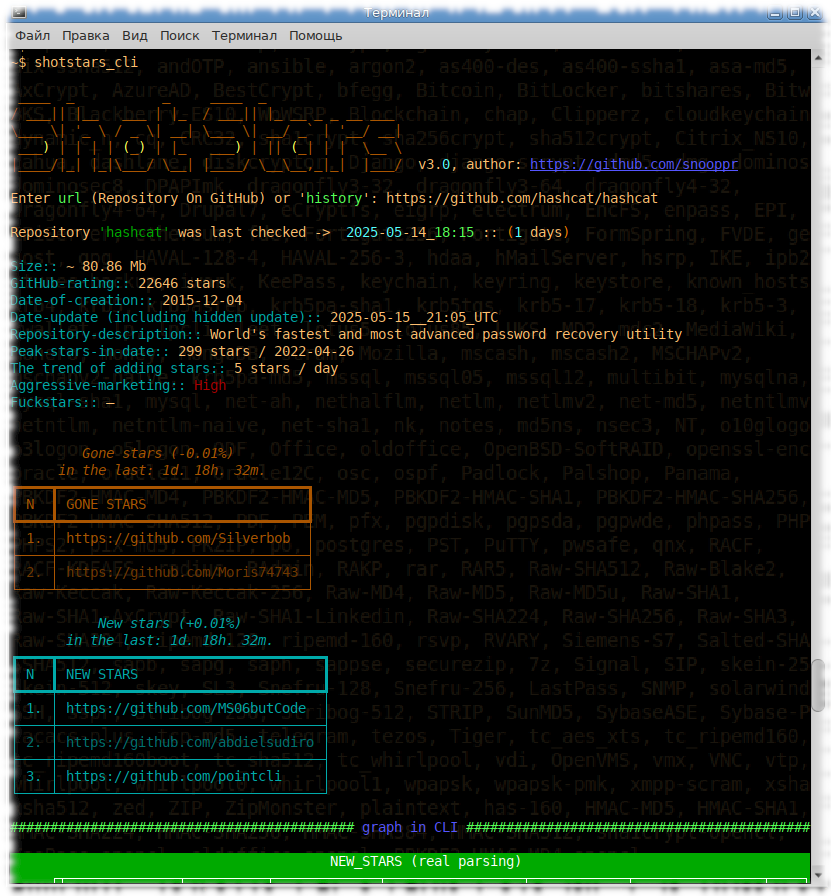
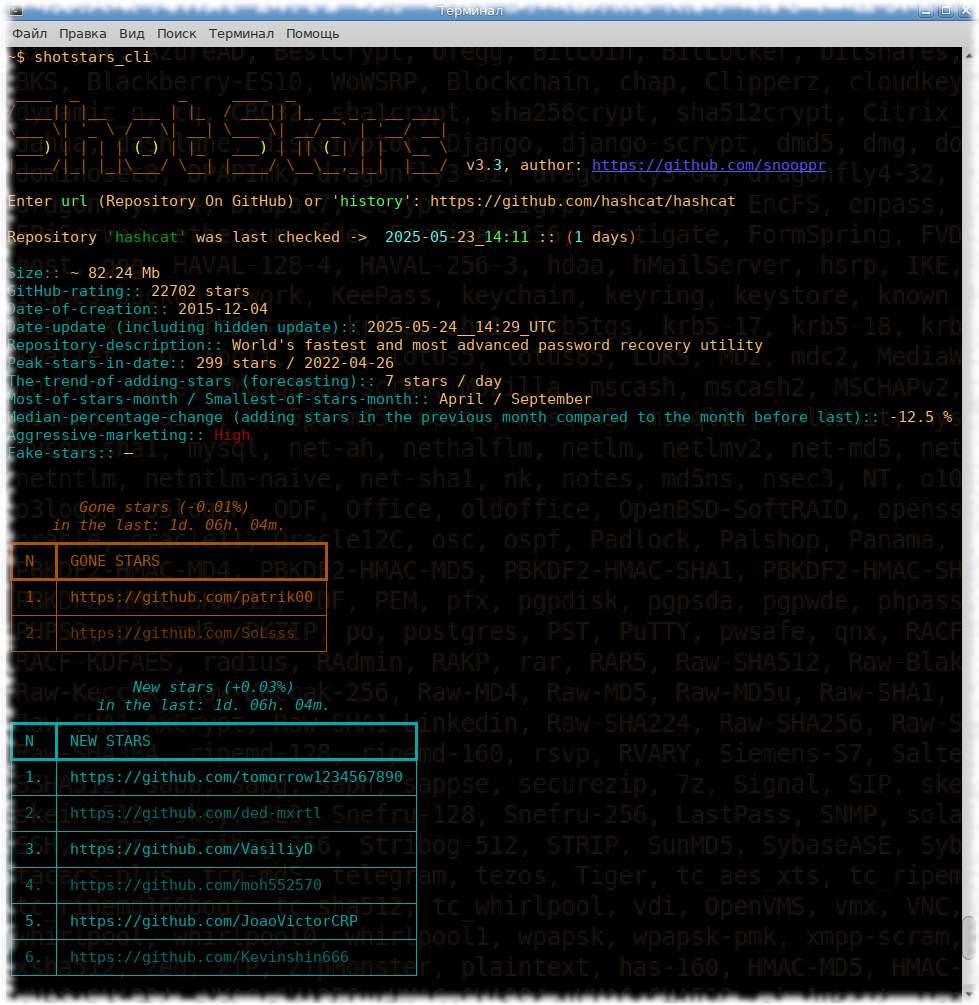
New version v3.3
— All statistics are now calculated if the repository is more than 2 months old (previously,
it was only calculated if the repository was more than a year old).

— The-trend-of-adding-stars algorithm has been corrected
(taking into account days without star movement).

— A new metric has been added to CLI/HTML reports: 'Median-percentage-change
(adding stars in the previous month compared to the month before last)'.
Algorithm: https://en.wikipedia.org/wiki/Relative_change Dynamics are measured in %
(the ratio of adding stars (based on the median) from the month before last to the last month).
For example, in January the adding of stars was (outliers, fake stars are not taken into account,
median) 5 stars / day, in February 10 stars / day, then the metric will show +100%. If the
dynamics are negative, January - 10 stars / day, February - 5 stars / day, then the metric will
show (-50%), this is not an error, because it is not measured in times,
check (10 = 100%, 5 = x, x = (5 * 100/10) - 100).

— Added new metric: "Most-of-stars-month / Smallest-of-stars-month", which displays the names of
the months (in which months the most and least stars were received).

— Minor visual edits to the HTML report.

Changed region(s): [[0.0, 0.0, 1.0, 1.0], [0.9025, 0.2188, 0.9326, 0.2812], [0.9025, 0.3438, 0.9326, 0.375]]

diff --git a/shotstars/shotstars.py b/shotstars/shotstars.py
@@ -39,7 +39,7 @@ console.print(r"""[yellow]
 / ___|| |__   ___ | |_  / ___|| |_ __ _ _ __ ___
 \___ \| '_ \ / _ \| __| \___ \| __/ _` | '__/ __|
  ___) | | | | (_) | |_   ___) | || (_| | |  \__ \
-|____/|_| |_|\___/ \__| |____/ \__\__,_|_|  |___/[/yellow]  v3.2, author: https://github.com/snooppr
+|____/|_| |_|\___/ \__| |____/ \__\__,_|_|  |___/[/yellow]  v3.3, author: https://github.com/snooppr
 """)
 
 
@@ -193,6 +193,7 @@ def agregated_date(filename):
 
 
 def calc_stars(aggregated_data):
+    """Получаем дату, и на неё кол-во звезд"""
     sorted_items = sorted(aggregated_data.items(), key=lambda item: datetime.datetime.strptime(item[0], '%Y-%m-%d'))
     dates_for_plot = [item[0] for item in sorted_items]
     counts_for_plot = [item[1] for item in sorted_items]
@@ -262,7 +263,7 @@ def generate_plots(aggregated_data, source_filename):
         elif base_filename == 'all_gone_stars.html':
             line_color = 'red'
             marker_color = '#a73c3c'
-
+# строим 1-й в HTML-график.
         fig.add_trace(plt_html.Scatter(x=dates_for_plot, y=counts_for_plot, mode='markers',
                       marker=dict(color=marker_color, size=8, symbol='star'),
                       error_y=dict(type='data', arrayminus=counts_for_plot, array=[0] * len(counts_for_plot),
@@ -602,7 +603,7 @@ def parsing(diff=False):
     config.read(os.path.join(os.path.dirname(path), "config.ini"))
     token = config.get('Shotstars', 'token')
     if token != "None":
-        head = {'User-Agent': f'Shotstars v3.2', 'Authorization': f'Bearer {token}'}
+        head = {'User-Agent': f'Shotstars v3.3', 'Authorization': f'Bearer {token}'}
     elif token == "None":
         head = {'User-Agent': f'Mozilla/5.0 (X11; Linux x86_64; rv:{random.randint(119, 127)}.0) Gecko/20100101 Firefox/121.0'}
 
@@ -694,22 +695,41 @@ def parsing(diff=False):
             pass
 
 # Статистика.
-    Maximum_stars_in_date = Counter({date: len(users) for date, users in datestars_user.items()}) #data для 1-го гр.add_stars.
-    stdev = statistics.stdev(list(Maximum_stars_in_date.values()))
-    dif_date = (datetime.datetime.today() - datetime.datetime.strptime(created_at, "%Y-%m-%d")).days
-    _Maximum_stars_in_date = Maximum_stars_in_date.copy()
-    trend = f"{round(statistics.median(list(_Maximum_stars_in_date.values())))} stars / day"
-    cumulative_datestars = Counter() #data для 2-го гр. add_stars.
+    start_date = datetime.datetime.strptime(created_at, "%Y-%m-%d")
+    end_date = datetime.datetime.today()
+    Maximum_stars_in_date = Counter({date: len(users) for date, users in datestars_user.items()}) #data для 1-го гр. add_stars.
+    dif_date = (end_date - start_date).days
 
+    cumulative_datestars = Counter() #data для 2-го гр. add_stars.
     s_total = 0
     for k, v in sorted(Maximum_stars_in_date.items()):
         s_total += v
         cumulative_datestars[k] = s_total
 
-    for i in range(dif_date - len(_Maximum_stars_in_date)):
-        _Maximum_stars_in_date.update({i: 0})
+    _Maximum_stars_in_date = Maximum_stars_in_date.copy()
+    while start_date <= end_date:
+        date_str = start_date.strftime('%Y-%m-%d')
+        _Maximum_stars_in_date.setdefault(date_str, 0)
+        start_date += datetime.timedelta(days=1)
 
-    if dif_date > 365:
+    sort_alldate_stars = sorted(_Maximum_stars_in_date.items(), key=lambda item: datetime.datetime.strptime(item[0], '%Y-%m-%d'))
+
+    if dif_date > 31:
+        trend = statistics.median([i[1] for i in sort_alldate_stars[-30:]])
+    else:
+        trend = statistics.median([i[1] for i in sort_alldate_stars])
+
+    trend = f"1 stars / day" if trend == 0.5 else f"{round(trend)} stars / day"
+
+    if dif_date > 62:
+        relative_start = statistics.median([i[1] for i in sort_alldate_stars[-60:-30]])
+        relative_end = statistics.median([i[1] for i in sort_alldate_stars[-30:]])
+        try:
+            relative_percentage = f"{round(((relative_end - relative_start) / relative_start) * 100, 2)} %"
+        except ZeroDivisionError:
+            relative_percentage = "—"
+
+        stdev = statistics.stdev([i[1] for i in sort_alldate_stars])
         if stdev < 4: marketing, marketing_color, fuckstars = "—", "—", "—"
         elif 4 < stdev < 6: marketing, marketing_color, fuckstars = "Low", "[green]Low[/green]", "—"
         elif 6 < stdev < 11: marketing, marketing_color, fuckstars = "Medium", "[yellow]Medium[/yellow]", "—"
@@ -719,14 +739,32 @@ def parsing(diff=False):
             marketing, marketing_color = "Hard+", "[black on red]Hard+[/black on red]"
             fuckstars = "Yes, multiple attempts to promote fake stars"
     else:
-        marketing = "The repository is still young, not enough data"
-        marketing_color = "The repository is still young, not enough data"
-        fuckstars = "The repository is still young, not enough data"
+        none_statistic = "The repository is still young, not enough data"
+        relative_percentage = none_statistic
+        marketing = none_statistic
+        marketing_color = none_statistic
+        fuckstars = none_statistic
 
-    for date_stars_max, cnt_stars in Maximum_stars_in_date.most_common(1):
-        console.print(f"[cyan]Peak-stars-in-date::[/cyan] {cnt_stars} stars / {date_stars_max}", highlight=False)
+    months = ["January", "February", "March", "April", "May", "June",
+              "July", "August", "September", "October", "November", "December"]
+    month_sum = defaultdict(int)
+    for date_str, _star in sort_alldate_stars:
+        dt = datetime.datetime.strptime(date_str, '%Y-%m-%d')
+        month_number = dt.month
+        month_sum[month_number] += _star
 
-    console.print("[cyan]The-trend-of-adding-stars::[/cyan]", trend, highlight=False)
+    cnt_month_sum = Counter(month_sum)
+    high_stars_month = months[cnt_month_sum.most_common()[0][0] - 1]
+    low_stars_month = months[cnt_month_sum.most_common()[-1][0] - 1]
+
+    max_stars, in_date = Maximum_stars_in_date.most_common(1)[0][-1], Maximum_stars_in_date.most_common(1)[0][0]
+
+    console.print(f"[cyan]Peak-stars-in-date::[/cyan] {max_stars} stars / {in_date}", highlight=False)
+    console.print(f"[cyan]The-trend-of-adding-stars (forecasting)::[/cyan] {trend}", highlight=False)
+    console.print(f"[cyan]Most-of-stars-month / Smallest-of-stars-month::[/cyan] {high_stars_month} / {low_stars_month}",
+                  highlight=False)
+    console.print(f"[cyan]Median-percentage-change (adding stars in the previous month compared to the month before last)" + \
+                  f"::[/cyan] {relative_percentage}", highlight=False)
     console.print(f"[cyan]Aggressive-marketing::[/cyan] {marketing_color}", highlight=False)
     console.print(f"[cyan]Fake-stars::[/cyan] {fuckstars}\n", highlight=False)
 
@@ -806,7 +844,7 @@ transition: transform 0.15s}
                 file_html.write(f"\n<a class='but' href='file://{path}/all_new_stars.html' " + \
                                 "title='open all history adding stars'>open all history</a>\n" + \
                                 f"\n<a class='but' href='file://{path}/graph_all_new_stars.html' " + \
-                                "title='open all history adding stars graph'>open graph</a>\n" + \
+                                "title='open all history adding stars graph'>open graphs</a>\n" + \
                                 "</div>\n\n<div class='textcols-item'>\n<h4 style='color:#fc3f1d'>" + \
                                 f"💫 Gone stars (-{per_stars_dn}%):</h4>\n")
 
@@ -819,10 +857,13 @@ transition: transform 0.15s}
                                 "title='open all history gone stars graph'>open graph</a>\n" + \
                                 "</div>\n</div>\n\n<br>\n<span class='donate' " + \
                                 "style='color: white; text-shadow: 0px 0px 20px #333333'>" + \
-                                f"<small><small>\n💾 Size:: ~ {size_repo} Mb<br>\n" + \
+                                f"<small><small><strong>\n💾 Size:: ~ {size_repo} Mb<br>\n" + \
                                 f"✨ GitHub-rating:: {stars} stars<br>\n" + \
-                                f"🌟 Peak-stars-in-date:: {cnt_stars} / {date_stars_max}<br>\n" + \
-                                f"📈 The-trend-of-adding-stars: {trend}<br>\n" + \
+                                f"🌟 Peak-stars-in-date:: {max_stars} / {in_date}<br>\n" + \
+                                f"📈 The-trend-of-adding-stars (forecasting):: {trend}<br>\n" + \
+                                f"📉 Most-of-stars-month / Smallest-of-stars-month:: {high_stars_month} / {low_stars_month}<br>\n" + \
+                                f"📊 Median-percentage-change (adding stars in the previous month compared " + \
+                                f"to the month before last):: {relative_percentage}<br>\n" + \
                                 f"⏳ Date-of-creation:: {created_at}<br>\n" + \
                                 f"⌛ Date-update (including hidden update):: {push_}<br>\n" + \
                                 f"📣 Aggressive-marketing:: {marketing}<br>\n" + \
@@ -831,7 +872,7 @@ transition: transform 0.15s}
                                 "<br>\n<span class='donate' style='color: white; text-shadow: 0px 0px 20px #333333'>" + \
                                 "<small><small>╭📅 Changes over the past " + \
                                 f"({dif_time()}): <br>├──{date}<br>└──{time.strftime('%Y-%m-%d_%H:%M', time.localtime())}" + \
-                                "</small></small></span>\n\n<div>\n<br>\n" + \
+                                "</strong></small></small></span>\n\n<div>\n<br>\n" + \
                                 f"<a class='but' href='file://{path.replace(repo, '')}dynamic_crossusers.txt' " + \
                                 "title='open all cross-users'>open all cross-users</a>\n</div>\n\n<p style='color: white'><small>" + \
                                 "Software developed for a competition<br>©Author: <a href='https://github.com/snooppr' " + \

diff --git a/README.md b/README.md
@@ -16,6 +16,8 @@ or even completely left the platform. In addition, the tool allows you to identi
 **Claimed functions:**  
 - [X] Shotstars will help find and expose naked kings and their retinue *(fact: stars in some repositories are inflated)*  
 - [X] Shotstars calculates parameters: aggressive marketing, trend, fake stars, peak of popularity and its date.  
+- [X] Shotstars will calculate progress or regression, percentage change over the last month.  
+- [X] Shotstars Shotstars will calculate the names of the months that had the most and the least stars.  
 - [X] Shotstars scans repositories for stars added and removed with statistics for a selected time period.  
 - [X] Shotstars reports the real date of the repository *(fact: developers can declare/fake/change the date of their projects commits, but Shotstars will not fool them, the utility will display real numbers)*.  
 - [X] Shotstats will show ~ the size of any public repository.  
@@ -31,8 +33,8 @@ or even completely left the platform. In addition, the tool allows you to identi
  ---
 
 ## ⌨ Native Installation  
-[![Downloads](https://static.pepy.tech/badge/shotstars)](https://pepy.tech/projects/shotstars?timeRange=threeMonths&category=version&includeCIDownloads=true&granularity=daily&viewType=table&versions=3.2)
-![Static Badge](https://img.shields.io/badge/latest%20v3.2-430094?link=https%3A%2F%2Fraw.githubusercontent.com%2Fsnooppr%2Fshotstars%2Frefs%2Fheads%2Fmain%2Fchangelog)  
+[![Downloads](https://static.pepy.tech/badge/shotstars)](https://pepy.tech/projects/shotstars?timeRange=threeMonths&category=version&includeCIDownloads=true&granularity=daily&viewType=table&versions=3.3)
+![Static Badge](https://img.shields.io/badge/latest%20v3.3-430094?link=https%3A%2F%2Fraw.githubusercontent.com%2Fsnooppr%2Fshotstars%2Frefs%2Fheads%2Fmain%2Fchangelog)  
 
 
 ```
@@ -105,6 +107,8 @@ Shotstars позволяет следить со стороны <u>за любы
 **Заявленные функции:**  
 - [X] Shotstars поможет найти и разоблачить голых королей и их свиту *(факт: звезды в некоторых репозиториях накручивают)*.  
 - [X] Shotstars рассчитывает параметры: агрессивный маркетинг, тренд, фейковые звезды, пик популярности и его дата.  
+- [X] Shotstars рассчитает прогресс или регресс, процентное изменение за последний месяц.  
+- [X] Shotstars вычислит имена месяцев, в которых было всех больше и всех меньше получено звезд.  
 - [X] Shotstars проверяет репозитории на предмет прибавления и убавления звезд со статистикой за выбранный период времени.  
 - [X] Shotstars сообщает реальную дату создания репозитория *(факт: разработчики могут заявлять/подделывать/изменять дату создания своих проектов и коммитов, но Shotstars им не обмануть, утилита отобразит реальные цифры)*.  
 - [X] Shotstats покажет ~ размер любого публичного репозитория.  
